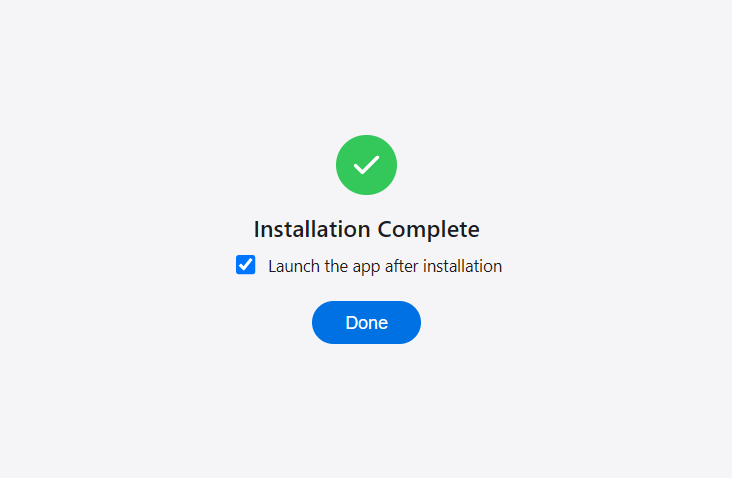
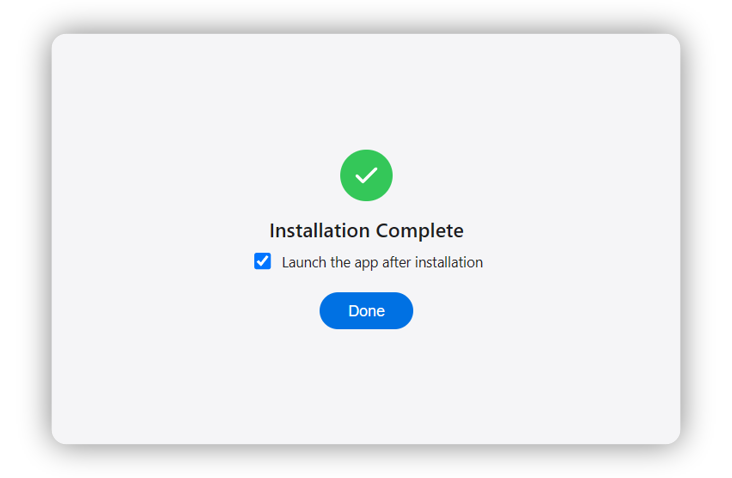
chore: 發布 v0.17.0
MSIX 引擎可以把應用程式安裝給這台電腦上的所有使用者了（msix.all_users）
——那是 MSIX 規劃上最後一項還沒實作的功能。這個功能的形狀由系統的限制
決定：替當前使用者註冊在提權的行程裡會失敗，而替整台機器登記需要管理員
權限，兩件事無法在同一個權限下完成。因此安裝檔本體維持未提權，需要時帶
內部旗標再啟動自己一次；子行程會比對套件的 SHA-256，那個旗標無法拿來
佈建別的東西。取不到權限的四種情形都退回「只裝給目前這位使用者」並在
完成畫面說明。已在 Windows 11 25H2 上以真正編出來的安裝檔驗收。

另外新增正式的使用者授權合約（十七條、中英雙語），這個專案自己的安裝檔
現在也會顯示它；LICENSE 的著作權人與兩顆 exe 的發行者統一為 lx-kvn。

修正一個缺陷：MSIX 模式的使用者從來沒看過那句告訴他去哪裡解除安裝的話
——前端在該放那則訊息的位置傳了空字串。一個問題三層，連帶修掉訊息沒有
翻譯、以及修正後成功畫面把標題印兩次。

README 截圖全部重拍（十八張，中英各一組，含兩種引擎的對比）。MSIX 輸出
規劃依 CLAUDE.md 的規則從 proposals/ 搬到 investigations/。

測試 1925 項（v0.16.0 當時 1679 項）。

diff --git a/docs/releases/PRE-RELEASE_NOTES_v0.17.0.md b/docs/releases/PRE-RELEASE_NOTES_v0.17.0.md
@@ -1,0 +1,284 @@
+# v0.17.0 — Pre-release Notes
+
+The MSIX engine can now install an application for **every user on the
+machine**, which was the last unimplemented feature on the MSIX plan. This
+release also adds a real end-user licence agreement, and fixes a defect that
+meant MSIX users were never shown the one sentence telling them how to
+uninstall.
+
+MSIX 引擎現在可以把應用程式**安裝給這台電腦上的所有使用者**——那是 MSIX
+規劃上最後一項還沒實作的功能。這一版另外新增了正式的使用者授權合約，並修正
+一個缺陷：MSIX 模式的使用者從來沒看過那句告訴他去哪裡解除安裝的話。
+
+---
+
+## English
+
+### New Features
+
+**Install for every user on the machine (`msix.all_users`)**
+
+MSIX installers have until now only ever installed for the user who ran them.
+A new packaging field, `msix.all_users` (a checkbox in the configuration
+wizard), asks Windows to register the application for the whole machine.
+
+The shape of this is dictated by a system constraint rather than by
+preference: registering an application for the *current* user fails with
+`0x80070005` when attempted from an elevated process, while registering it for
+the *machine* requires administrator rights. The two therefore cannot happen
+under the same token. `Setup.exe` stays unelevated and re-launches itself with
+an internal flag for the elevated half; that child verifies the package's
+SHA-256 against the one the installer extracted, so the flag cannot be used to
+provision anything else.
+
+Four situations all end the same way — installed for the current user only,
+with an explanation on the final screen: the user declines the permission
+prompt, the account cannot elevate, the elevated step fails, or the install is
+silent and unelevated. A downgrade is not an installation failure; the
+application is still usable, and stopping would leave the user with nothing.
+
+Turning the field on prints its four caveats at build time: the permission
+prompt and the downgrade behaviour, that every other user must start the
+application once before their own installation completes, that their file
+associations do not take effect until then, and that Settings > Apps cannot
+remove the machine-level registration afterwards.
+
+Verified on Windows 11 25H2 with a real installer — see
+[`docs/adr/0013`](../adr/0013-msix-all-users-scope-is-an-opt-in-field.md).
+
+**A real end-user licence agreement**
+
+The project previously had only the MIT `LICENSE`. A 17-clause bilingual EULA
+now covers the legal position of the tool's core function — it builds
+installers that write to other people's machines — and the installer this
+project ships for itself now displays it. Governing law is the law of Taiwan;
+the court of jurisdiction is the Taichung District Court.
+
+**Two virtual-machine verification tools**
+
+`tools/drive_installer_gui.py` moves the real cursor on a guest desktop and
+drags the application icon onto the install target, confirming that the
+gesture actually triggers an installation. `tools/measure_msix_scope.py`
+measures how Windows behaves when the same package is deployed at different
+user scopes. A third, `tools/verify_msix_all_users.py`, was added for this
+release's acceptance round.
+
+### Bug Fixes
+
+**MSIX users were never shown how to uninstall**
+
+The MSIX engine produces no uninstaller of its own (ADR-0006), so the success
+message — "this application is managed by the Windows packaging engine; to
+remove it, go to Settings > Apps" — is the only time the user is told where to
+go. The front end passed an empty string where that message belonged, so the
+finished screen was word-for-word identical to the traditional engine's.
+Silent installs were unaffected: the sentence reached the `/LOG=` file, so the
+person who could already read documentation saw it and the person who needed
+it did not.
+
+Found while re-shooting the README screenshots. Fixing it exposed two more
+layers: those messages were Python string literals that had never been moved
+to the translation mechanism introduced in v0.16.0, so an English-language
+system received Chinese; and the first fix made the traditional engine's
+success screen print its own title twice, which unit tests could not see and a
+virtual-machine screenshot did.
+
+**A licence clause quoted a button that does not exist**
+
+The EULA referred to an "Agree and continue" button; the interface says
+"Agree & Continue". English interface strings were also inconsistent about
+"license" and "licence".
+
+**Three defects in the verification tools, all of which needed a real run**
+
+A drag test ran silently for ten minutes with no way to see where it was
+stuck; it now reports per-stage timings and takes ninety seconds.
+`FindWindow` returned 0 for 150 consecutive seconds while looking for a
+window with a Chinese title that `EnumWindows` was listing at the same
+moment — enumeration replaced it, and the window is now found in 8 seconds.
+And a guest script read the installer's UTF-8 log using Windows PowerShell's
+default ANSI code page, turning it into mojibake and failing a judgment for a
+reason that had nothing to do with the product.
+
+### Improvements
+
+The console-encoding guard added in v0.16.0 now also covers the five
+virtual-machine tools. They print text written by the guest, which they do not
+control; a character the console could not encode crashed one of them on its
+final line, discarding a measurement round that had already completed.
+
+### Documentation
+
+README screenshots were re-shot: eighteen images, one set in each language,
+including a side-by-side comparison of the traditional and MSIX engines.
+Images in tables now use a fixed width instead of stretching with the text
+beside them.
+
+`docs/proposals/MSIX輸出規劃.md` moved to `docs/investigations/`. Its
+todo list is now empty of features, which is the condition `CLAUDE.md` sets
+for that move — the first time that rule has actually been exercised.
+References from twenty files were updated; the three in `docs/releases/` were
+deliberately left alone, as those are frozen snapshots.
+
+### Testing
+
+1925 tests, up from 1679 at `v0.16.0`. The acceptance round for this release's
+main feature ran on a real Windows 11 machine in Traditional Chinese with a
+genuinely built installer, restoring a snapshot between each of three rounds —
+a provisioning record cannot be removed through the system's own interface, so
+carrying one into the next round measures something else.
+
+### Known limitations
+
+- Whether another account gets the application after signing in was not
+  measured this round. The virtual machine's clean snapshot has only one
+  enabled local account, so measuring it means creating one, and a
+  freshly-created account is not necessarily the same as the one in the
+  snapshot. The claim rests on an earlier measurement recorded in ADR-0013.
+- The UAC prompt itself cannot be automated: Windows' secure desktop does not
+  accept synthetic input. Both sides of it were verified separately; the
+  "user declines" path is covered by unit tests only.
+- Running a silent MSIX installation **as an administrator** exits with code 1.
+  Provisioning succeeds and the machine does end up with the application —
+  Windows registers it for the operator shortly afterwards — but the
+  installer's own attempt to register it fails with `0x80070005`. This
+  predates the feature in this release.
+- Signing still uses a self-signed certificate. That is a development and
+  testing measure, not a distribution one.
+
+---
+
+## 繁體中文
+
+### 新功能
+
+**安裝給這台電腦上的所有使用者（`msix.all_users`）**
+
+MSIX 的安裝檔至今只裝給執行它的那一位使用者。新增的打包欄位
+`msix.all_users`（配置精靈裡是一個勾選框）會請 Windows 把應用程式登記給
+整台機器。
+
+這個功能的形狀由系統的限制決定，不是偏好：替**當前使用者**註冊在提權的行程
+裡會以 `0x80070005` 失敗，而替**整台機器**登記需要管理員權限——兩件事無法在
+同一個權限下完成。因此 `Setup.exe` 本體維持未提權，需要的時候帶一個內部旗標
+再啟動自己一次，那一次才提權。子行程會比對套件的 SHA-256 是否與安裝檔自己
+解壓出來的那一份相同，因此那個旗標無法拿來佈建別的東西。
+
+四種情形收斂到同一個結果——只安裝給目前這位使用者，並在完成畫面說明：使用者
+拒絕權限要求、帳號本身無法提權、提權後那一步失敗、以及靜默安裝且未提權。
+降級不是安裝失敗：應用程式仍然可用，中止的話使用者手上什麼都沒有。
+
+啟用該欄位時，建置階段會印出它的四項附帶條件：權限要求與降級行為、其他使用者
+必須先啟動一次應用程式才算完成安裝、在那之前他們的檔案關聯不生效、以及日後
+「設定 → 應用程式」移除不掉機器層級的登記。
+
+已於 Windows 11 25H2 以真正編出來的安裝檔驗證，見
+[`docs/adr/0013`](../adr/0013-msix-all-users-scope-is-an-opt-in-field.md)。
+
+**正式的使用者授權合約**
+
+這個專案原本只有 MIT 的 `LICENSE`。新增的十七條中英雙語合約涵蓋這隻工具核心
+功能的法律責任——它產出的安裝檔會寫入別人的電腦——而這個專案自己的安裝檔現在
+也會顯示它。準據法為中華民國自由地區（臺灣）現行法律，管轄法院為臺灣臺中
+地方法院。
+
+**兩支虛擬機驗證工具**
+
+`tools/drive_installer_gui.py` 在客體桌面上移動真正的游標，把應用程式圖示拖到
+安裝目的地，確認那個手勢真的會觸發安裝。`tools/measure_msix_scope.py` 量測
+同一個套件以不同使用者範圍部署時 Windows 的行為。這一版的驗收另外加了第三支
+`tools/verify_msix_all_users.py`。
+
+### 錯誤修正
+
+**MSIX 模式的使用者從來沒看過解除安裝的說明**
+
+MSIX 引擎不產生自己的解除安裝程式（ADR-0006），因此成功訊息那句「這個應用
+程式由 Windows 的套件引擎管理，需要移除時請到『設定 → 應用程式』」是使用者
+唯一被告知去哪裡移除的機會。前端在該放那則訊息的位置傳了一個空字串，於是
+完成畫面與傳統引擎一字不差。靜默安裝反而不受影響：那句話進得了 `/LOG=`——
+看得到的是本來就會讀文件的人，看不到的是真正需要它的人。
+
+替 README 重拍截圖時發現的。修正它又牽出兩層：那些訊息是 Python 裡的字面
+中文，從來沒有搬進 v0.16.0 建立的翻譯機制，英文環境的使用者收到的是中文；
+而第一版修正讓傳統引擎的成功畫面把自己的標題印了兩次——單元測試看不出這種
+事，是虛擬機的截圖顯露的。
+
+**合約引用了一個不存在的按鈕**
+
+EULA 裡寫的是「Agree and continue」，而介面上是「Agree & Continue」。英文介面
+的 license／licence 拼法也不一致。
+
+**驗證工具的三處缺陷，都是實際跑起來才現形的**
+
+拖曳測試整趟不出聲跑了十分鐘，看不出卡在哪；現在會分階段報出耗時，整輪降到
+九十秒。`FindWindow` 以精確標題尋找中文標題的視窗連續 150 秒回傳 0，而同一
+時間 `EnumWindows` 列出的清單裡就有那個標題——改用列舉之後 8 秒就找到。另外
+有一支客體腳本以 Windows PowerShell 預設的 ANSI 字碼頁去讀安裝檔寫的 UTF-8
+紀錄，讀回來是一整段亂碼，於是一個其實正確的行為被判成失敗，理由與產品無關。
+
+### 改善
+
+v0.16.0 加入的主控台編碼防護現在也涵蓋五支虛擬機工具。它們印的是客體寫回來
+的文字，內容不受它們控制；一個主控台編不出來的字元曾讓其中一支在最後一行
+崩潰，一輪已經跑完的量測結果因此完全拿不到。
+
+### 文件
+
+README 截圖全部重拍：十八張，中英各一組，並加上傳統引擎與 MSIX 引擎的並排
+對比。表格裡的圖改用固定寬度，不再被旁邊的文字長度撐得忽大忽小。
+
+`docs/proposals/MSIX輸出規劃.md` 搬到 `docs/investigations/`。它的待辦清單上
+已經沒有功能，那正是 `CLAUDE.md` 為這個搬動所設的條件——這條規則第一次真的被
+執行。二十個檔案指過來的路徑一併更新；`docs/releases/` 底下的三處不動，那些是
+內容凍結的快照。
+
+### 測試
+
+1925 項，`v0.16.0` 當時是 1679 項。這一版主要功能的驗收在一台真正的繁體中文
+Windows 11 上以真正編出來的安裝檔執行，三輪之間各還原一次快照——佈建紀錄無法
+從系統介面移除，帶著它量下一輪會量到另一件事。
+
+### 已知限制
+
+- 「另一個帳號登入之後會不會取得該應用程式」這一輪沒有量。虛擬機的乾淨快照上
+  啟用中的本機帳號只有一個，要量就得自己建一個，而新建的帳號與快照裡原有的
+  未必相同。該項的依據仍是 ADR-0013 裡先前的量測結果。
+- UAC 那個視窗本身無法自動化：Windows 的安全桌面不接受合成輸入。它兩側的
+  行為各自驗過；「使用者按下取消」那條路徑僅由單元測試涵蓋。
+- **以管理員身分**執行 MSIX 的靜默安裝，結束碼是 1。佈建會成功、機器最後也
+  確實取得了應用程式——Windows 會在其後替操作者補上註冊——但安裝檔自己那次
+  註冊會以 `0x80070005` 失敗。此問題早於這一版的功能存在。
+- 簽章仍使用自簽憑證。那是開發與測試手段，不是散布方案。
+
+### 待辦
+
+- 決定「以管理員身分執行靜默安裝時，結束碼要不要反映機器的最終狀態」。
+- MSIX 仍未支援的三項：開機自動啟動、Windows 服務、相依元件。三者各自需要
+  獨立研究，目前會擋下建置並說明。
+- 正式憑證／信任鏈的最終方案——這是唯一擋住實際發布的一項。
+- 協助使用者匯入憑證的輔助指令（ADR-0005 決定二），名稱、是否需要提權、
+  失敗時的行為皆未定。
+
+---
+
+## Full commit list / 完整變更（commit）
+
+- `ed68c00` fix(msix): 寫給 MSIX 使用者的說明從來沒有人看得到
+- `f3aa8bb` docs: 新增使用者授權合約，LICENSE 的著作權人改為 lx-kvn
+- `1d6ed17` docs: README 截圖全部重拍，中英各一組，並加上兩種引擎的對比
+- `2058d5d` fix(ui): 英文介面的拼法與合約一致，並修正合約引用到一個不存在的按鈕
+- `2d7dee3` docs: 清掉三處已經不成立的敘述，都與 WebView2 偵測有關
+- `2863e43` feat(tools): 兩支驗證工具——拖曳手勢實測，與全機器範圍的兩項待驗行為
+- `289aa8a` docs(adr): ADR-0013 待辦的兩項行為量測完成，全機器範圍不再有前置阻礙
+- `5590c26` fix(tools): 兩支驗證工具的三處缺陷，都是實際跑起來才現形的
+- `84dbe60` fix(ui): 成功畫面不再把標題原封不動再印一次
+- `6d9b99f` docs(readme): 表格裡的截圖改用固定寬度，不再被欄位文字長度撐得忽大忽小
+- `bfb5119` docs(screenshots): 更新授權合約頁與安裝完成頁截圖
+- `be1195e` docs(screenshots): 重截 installer-done-en.png 為傳統引擎的安裝成功頁
+- `3d9be4f` docs(adr): 依實測修正 ADR-0013 決定六——跨範圍也直接部署，不先移除
+- `573b3c9` feat(msix): 全機器使用者範圍的打包端——新增 all_users 欄位與建置提示
+- `f85e243` feat(msix): 全機器使用者範圍的安裝端——提權子行程、佈建、降級與警示
+- `b9fabb3` test(msix): 全機器範圍安裝端的虛擬機驗收，四項全數通過
+- `f4f5abf` docs: MSIX輸出規劃 搬進 investigations，指過來的連結一併更新
+- `34b8934` fix(tools): 驗證工具延後匯入 vms，判準才會在 CI 上真的被跑到
